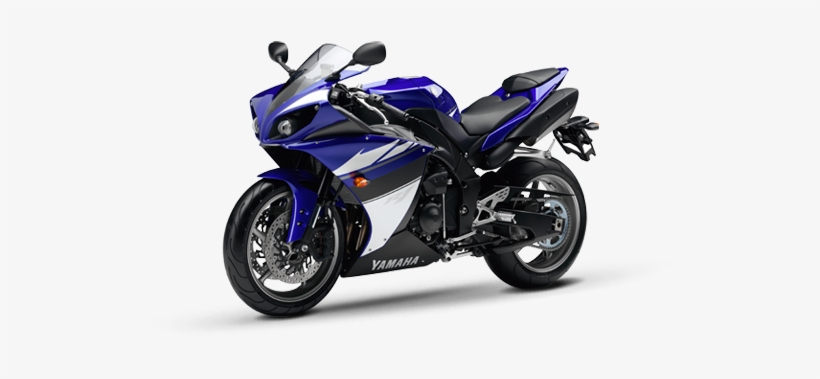
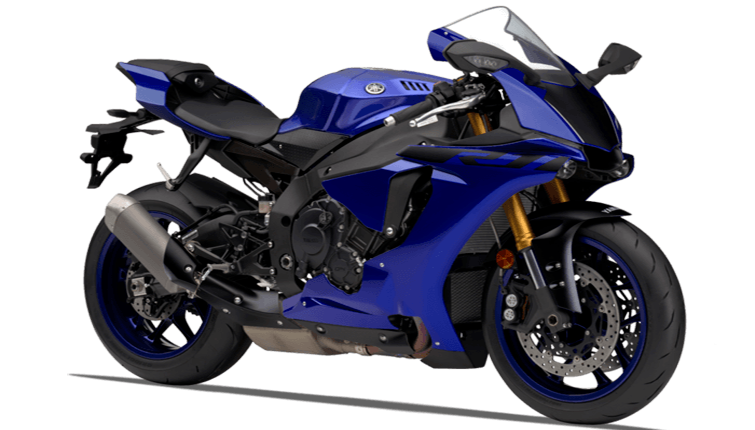
New bikes added

diff --git a/contact-us.php b/contact-us.php
@@ -87,7 +87,7 @@ $error="Something went wrong. Please try again";
 </head>
 <body>
 
-<<!-- Start Switcher -->
+<!-- Start Switcher -->
 <?php include('includes/colorswitcher.php');?>
 <!-- /Switcher -->
 
@@ -148,7 +148,21 @@ $error="Something went wrong. Please try again";
       <div class="col-md-6">
         <h3>Contact Info</h3>
         <div class="contact_detail">
-              <?php
+        <ul>
+            <li>
+              <div class="icon_wrap"><i class="fa fa-map-marker" aria-hidden="true"></i></div>
+              <div class="contact_info_m">Bike Book PVT LTD. Kochi ,Kerala</div>
+            </li>
+            <li>
+              <div class="icon_wrap"><i class="fa fa-phone" aria-hidden="true"></i></div>
+              <div class="contact_info_m"><a href="tel:+91 9061613233">+91 9061613233</a></div>
+            </li>
+            <li>
+              <div class="icon_wrap"><i class="fa fa-envelope-o" aria-hidden="true"></i></div>
+              <div class="contact_info_m"><a href="mailto:jabirahmedz111@gmail.com">jabirahmedz111@gmail.com</a></div>
+            </li>
+          </ul>
+              <!-- <?php
 $pagetype=$_GET['type'];
 $sql = "SELECT Address,EmailId,ContactNo from tblcontactusinfo";
 $query = $dbh -> prepare($sql);
@@ -174,7 +188,8 @@ foreach($results as $result)
               <div class="contact_info_m"><a href="mailto:codeprojectsorg@gmail.com"><?php   echo htmlentities($result->ContactNo); ?></a></div>
             </li>
           </ul>
-        <?php }} ?>
+        <?php }} ?> -->
+        
         </div>
       </div>
     </div>

diff --git a/admin/includes/leftbar.php b/admin/includes/leftbar.php
@@ -23,7 +23,7 @@
 				<li><a href="manage-conactusquery.php"><i class="fa fa-desktop""></i> Manage Conatctus Query</a></li>
 				<li><a href="reg-users.php"><i class="fa fa-users"></i> Reg Users</a></li>
 			<li><a href="manage-pages.php"><i class="fa fa-files-o"></i> Manage Pages</a></li>
-			<li><a href="update-contactinfo.php"><i class="fa fa-files-o"></i> Update Contact Info</a></li>
+			<!-- <li><a href="update-contactinfo.php"><i class="fa fa-files-o"></i> Update Contact Info</a></li> -->
 
 			<li><a href="manage-subscribers.php"><i class="fa fa-table"></i> Manage Subscribers</a></li>
 

diff --git a/index.php b/index.php
@@ -55,7 +55,7 @@ error_reporting(0);
           <div class="banner_content">
             <h1>Find Your Perfect bike</h1>
             <p>We have more than a thousand bikes for you to choose. </p>
-            <a href="#" class="btn">Read More <span class="angle_arrow"><i class="fa fa-angle-right" aria-hidden="true"></i></span></a> </div>
+            <a href="page.php?type=aboutus" class="btn">Read More <span class="angle_arrow"><i class="fa fa-angle-right" aria-hidden="true"></i></span></a> </div>
         </div>
       </div>
     </div>

diff --git a/admin/includes/header.php b/admin/includes/header.php
@@ -4,7 +4,7 @@
 		<ul class="ts-profile-nav">
 
 			<li class="ts-account">
-				<a href="#"><img src="img/ts-avatar.jpg" class="ts-avatar hidden-side" alt=""> Account <i class="fa fa-angle-down hidden-side"></i></a>
+				<a href="#"><img src="img/watch_dogs.jpg" class="ts-avatar hidden-side" alt=""> Account <i class="fa fa-angle-down hidden-side"></i></a>
 				<ul>
 					<li><a href="change-password.php">Change Password</a></li>
 					<li><a href="logout.php">Logout</a></li>

diff --git a/admin/post-avehical.php b/admin/post-avehical.php
@@ -187,7 +187,7 @@ foreach($results as $result)
 </div>
 
 <div class="form-group">
-<label class="col-sm-2 control-label">Price Per Day(in USD)<span style="color:red">*</span></label>
+<label class="col-sm-2 control-label">Price Per Day(in INR)<span style="color:red">*</span></label>
 <div class="col-sm-4">
 <input type="text" name="priceperday" class="form-control" required>
 </div>

diff --git a/vehical-details.php b/vehical-details.php
@@ -96,7 +96,7 @@ if($query->rowCount() > 0)
 {
 foreach($results as $result)
 {
-  echo $result->Vimage2;
+  echo $result->Vimage1;
 $_SESSION['brndid']=$result->bid;
 ?>
 
